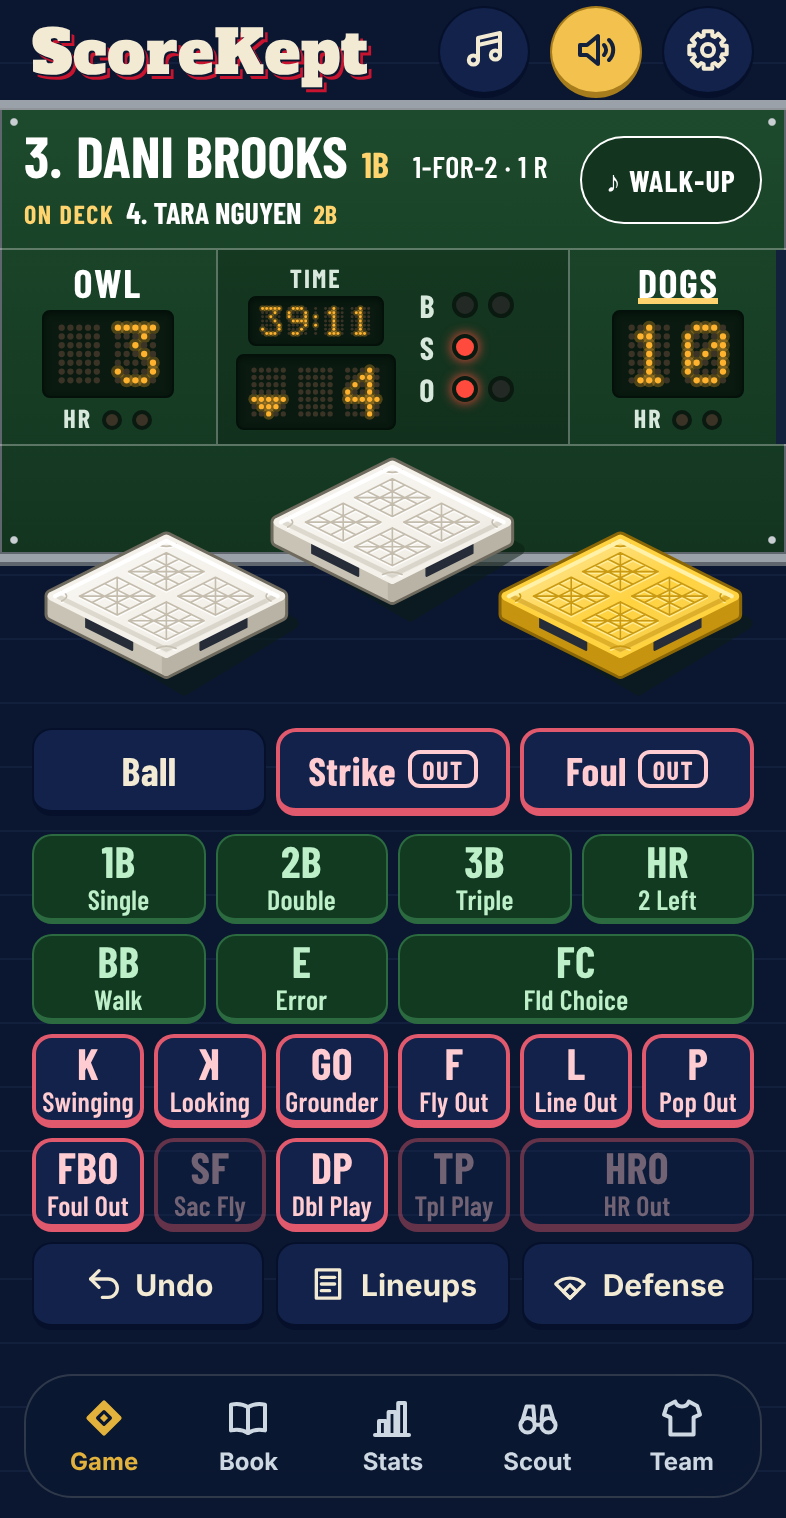
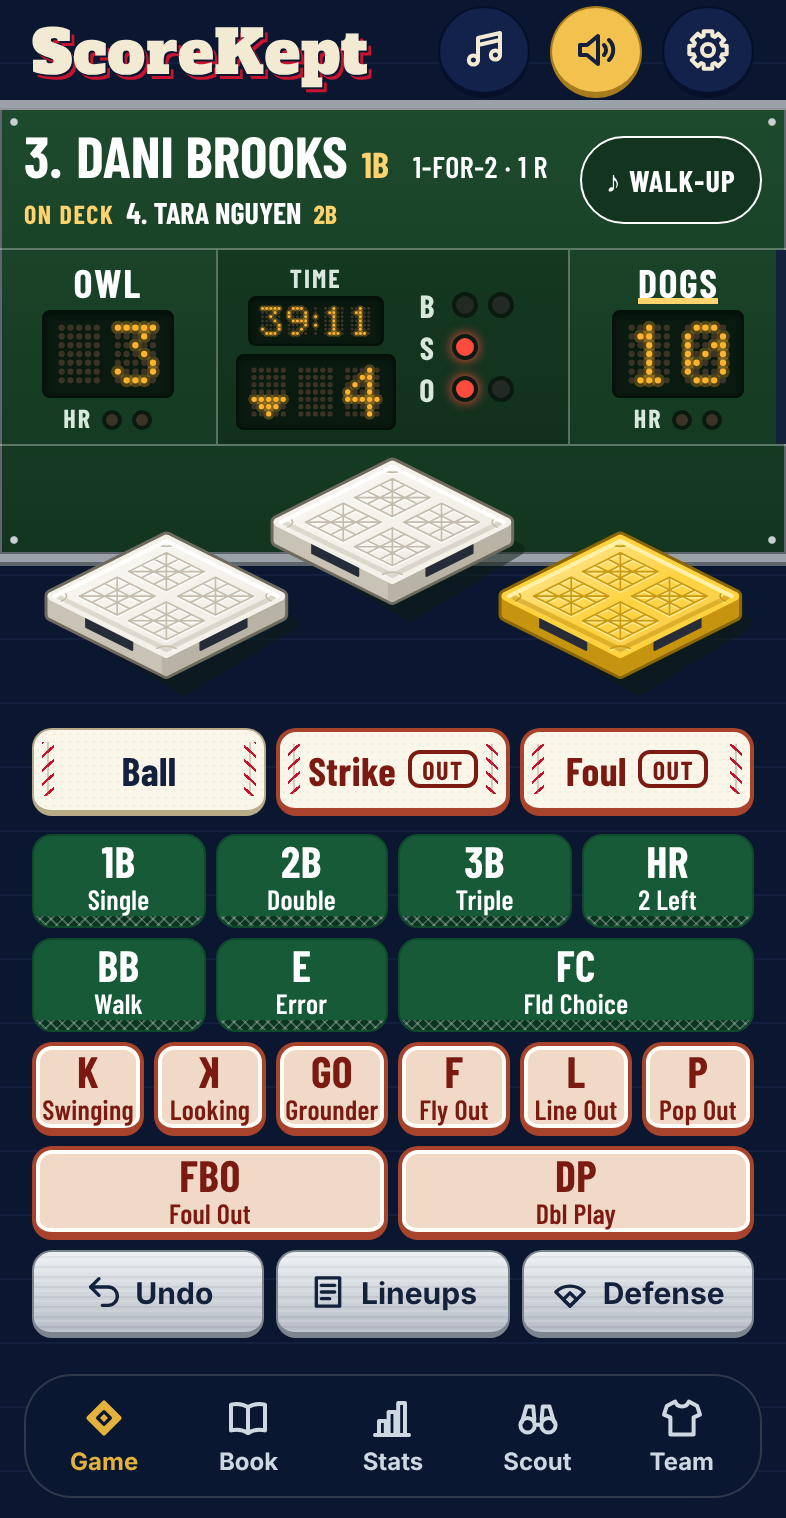
Game: ballpark materials on the keys, and situational outs that step aside
Steve's pick E: Ball, Strike, and Foul in stitched leather, reaching base on
dark turf with a strip of base tread, outs on infield clay inside a chalk
line, and Undo, Lineups, and Defense in brushed aluminum. Sac Fly, Double
Play, Triple Play, and HR Out show only when they can happen; the first out
row never moves.

Claude-Session: https://claude.ai/code/session_019GkS5eEiAzmEB3GrHC5aVf

diff --git a/src/ui/game/game.css b/src/ui/game/game.css
@@ -1283,3 +1283,128 @@
   border-left-width: 0;
   border-radius: 0;
 }
+
+/* ---- ballpark materials (Steve's pick E, Nov 13) ------------------------------------------
+ * Each kind of key is made of its own ballpark thing, the same day and night:
+ * Ball, Strike, and Foul in cream leather with a red seam of V-stitches along
+ * each end; reaching base on dark turf with a strip of the bases' molded
+ * rubber tread; outs on pale infield clay inside a chalk line; Undo, Lineups,
+ * and Defense in brushed aluminum. Dark turf against pale clay, and the tread
+ * against the chalk line, tell reach from out without color. Faint grain only;
+ * no smudges or filters.
+ */
+.gm-key.gm-pitch {
+  position: relative;
+  overflow: hidden;
+  padding-inline: 13px;
+  border-color: var(--mat-leather-edge);
+  background-color: var(--mat-leather);
+  background-image: radial-gradient(var(--mat-leather-grain) 18%, transparent 21%);
+  background-size: 4px 4px;
+  color: var(--mat-leather-ink);
+}
+
+/* The seam at each end: a faint crease, then a row of red V-stitches. */
+.gm-key.gm-pitch::before,
+.gm-key.gm-pitch::after {
+  content: '';
+  position: absolute;
+  top: 6px;
+  bottom: 7px;
+  width: 6px;
+  background-image:
+    linear-gradient(to right, transparent 2.5px, var(--mat-seam-crease) 2.5px, var(--mat-seam-crease) 3.5px, transparent 3.5px),
+    repeating-linear-gradient(-42deg, transparent 0 2.4px, var(--mat-seam) 2.4px 3.6px, transparent 3.6px 5.2px);
+  pointer-events: none;
+}
+
+.gm-key.gm-pitch::before {
+  left: 4px;
+}
+
+.gm-key.gm-pitch::after {
+  right: 4px;
+  transform: scaleX(-1);
+}
+
+/* The pitch that ends the at-bat: a red or green frame on the leather, with its tag. */
+.gm-key.gm-pitch.sk-out {
+  border: 2px solid var(--mat-clay-edge);
+  border-bottom-width: 4px;
+  color: var(--mat-clay-ink);
+}
+
+.gm-key.gm-pitch.sk-hit {
+  border: 2px solid var(--mat-turf-edge);
+  border-bottom-width: 4px;
+  color: var(--mat-turf-edge);
+}
+
+/* Reaching base: turf, with the bases' rubber tread along the bottom edge (its own layer, below the words). */
+.gm-key.sk-hit:not(.gm-pitch) {
+  position: relative;
+  overflow: hidden;
+  border-color: var(--mat-turf-edge);
+  border-bottom-width: 1px;
+  padding-bottom: 6px;
+  background-color: var(--mat-turf);
+  color: var(--mat-turf-ink);
+}
+
+.gm-key.sk-hit:not(.gm-pitch)::after {
+  content: '';
+  position: absolute;
+  left: 0;
+  right: 0;
+  bottom: 0;
+  height: 5px;
+  background-color: var(--mat-tread);
+  background-image:
+    repeating-linear-gradient(45deg, var(--mat-tread-ridge) 0 1px, transparent 1px 4px),
+    repeating-linear-gradient(-45deg, var(--mat-tread-ridge) 0 1px, transparent 1px 4px);
+  pointer-events: none;
+}
+
+/* Outs: infield clay inside a chalk line, framed in brick. */
+.gm-key.sk-out:not(.gm-pitch),
+.gm-key.gm-over {
+  border: 2px solid var(--mat-clay-edge);
+  border-bottom-width: 4px;
+  background-color: var(--mat-clay);
+  box-shadow: inset 0 0 0 2px var(--mat-chalk);
+  color: var(--mat-clay-ink);
+}
+
+/* Undo, Lineups, and Defense: brushed aluminum, lit from above. */
+.gm-strip-key {
+  border-color: var(--mat-alu-edge);
+  background-color: var(--mat-alu-lo);
+  background-image:
+    repeating-linear-gradient(0deg, var(--mat-alu-grain) 0 1px, transparent 1px 2px, var(--mat-alu-grain-dark) 2px 3px, transparent 3px 5px),
+    linear-gradient(var(--mat-alu-hi), var(--mat-alu-lo));
+  color: var(--mat-alu-ink);
+}
+
+/* Streamlined out keys (Steve's pick E): the first row never moves; the second row holds
+   Foul Out and whichever of Sac Fly, Double Play, Triple Play, and HR Out can happen, sharing
+   its width. At 150% zoom (the narrow layout above) they stay put and dim instead. */
+@media (min-width: 341px) {
+  .gm-outs-pad {
+    grid-template-columns: repeat(60, minmax(0, 1fr));
+  }
+
+  .gm-outs-pad > .gm-key {
+    grid-column: span var(--span, 10);
+  }
+
+  .gm-outs-pad > .gm-gone {
+    display: none;
+  }
+}
+
+/* A key that can't be used right now keeps only its frame. */
+.gm-key[aria-disabled='true'].sk-out:not(.gm-pitch) {
+  background-color: transparent;
+  box-shadow: none;
+  color: var(--out-ink);
+}

diff --git a/tests/e2e/game.spec.ts b/tests/e2e/game.spec.ts
@@ -56,17 +56,24 @@ test('Undo takes back the last tap', async ({ page }) => {
   await expect(live(page)).toHaveText('Undone.');
 });
 
-test('dimmed buttons explain themselves and record nothing', async ({ page }) => {
+test('dimmed buttons explain themselves and record nothing; situational outs step aside until they can happen', async ({ page }) => {
   await freshApp(page);
   await startGame(page);
-  const sf = key(page, 'Sac Fly');
-  await expect(sf).toHaveAttribute('aria-disabled', 'true');
+  const fc = key(page, 'Fielder’s Choice: Runner Out, Batter Safe');
+  await expect(fc).toHaveAttribute('aria-disabled', 'true');
   // Still tappable (VoiceOver reads why); the test runner needs force for aria-disabled.
-  await sf.click({ force: true });
-  await expect(page.locator('.gm-hint')).toHaveText('Needs a runner on third with fewer than two outs');
+  await fc.click({ force: true });
+  await expect(page.locator('.gm-hint')).toHaveText('Needs a runner on base');
   await expect(page.locator('.gm-batter')).toHaveText('Player 1');
-  await expect(key(page, 'Fielder’s Choice: Runner Out, Batter Safe')).toHaveAttribute('aria-disabled', 'true');
-  await expect(key(page, 'Triple Play')).toHaveAttribute('aria-disabled', 'true');
+  // Streamlined (Steve's pick E): with nobody on, Sac Fly, Double Play, and Triple Play aren't on the pad.
+  for (const name of ['Sac Fly', 'Double Play', 'Triple Play']) await expect(key(page, name)).toBeHidden();
+  // A runner on first with nobody out: Double Play steps in, sharing the row with Foul Out.
+  await key(page, 'Single').click();
+  await expect(key(page, 'Double Play')).toBeVisible();
+  await expect(key(page, 'Sac Fly')).toBeHidden();
+  const [fbo, dp] = await Promise.all([key(page, 'Foul Out').boundingBox(), key(page, 'Double Play').boundingBox()]);
+  expect(Math.abs(fbo!.width - dp!.width)).toBeLessThan(2);
+  expect(fbo!.y).toBeCloseTo(dp!.y, 0);
 });
 
 test('runners: advance, and Scored on the Play gives the batter the RBI', async ({ page }) => {

diff --git a/src/content/help.ts b/src/content/help.ts
@@ -41,7 +41,7 @@ export const HELP: HelpSection[] = [
   {
     title: 'The Scoring Buttons',
     paragraphs: [
-      'Filled green buttons are for a batter who reaches base. Outlined red buttons are for a batter who’s out. When the next pitch would end the at-bat, its button says Out or Walk. Each shows the code you’d write in the book over a plain word: GO over Grounder, K over Swinging. Some are dimmed when they can’t happen, like Sac Fly with nobody on third, or HRO before your team is over its home-run limit; tap one to hear why.',
+      'The dark turf-green buttons, with a strip of base tread along the bottom, are for a batter who reaches base. The pale clay buttons inside a chalk line are for a batter who’s out. Ball, Strike, and Foul are stitched leather. Sac Fly, Double Play, Triple Play, and HR Out appear only when they can happen. When the next pitch would end the at-bat, its button says Out or Walk. Each shows the code you’d write in the book over a plain word: GO over Grounder, K over Swinging. Some are dimmed when they can’t happen, like Sac Fly with nobody on third, or HRO before your team is over its home-run limit; tap one to hear why.',
       'The top of the scoreboard shows the batter and today: hits for at-bats, each trip by its Book code, RBI, and runs. On Deck is right under the name. Season numbers are on the Stats tab.',
       'Scroll down on the Book, Stats, Scout, or Team and the tab bar tucks into a circle. While a game is on, a little scoreboard sits beside it; tap it to go back to the game. Tap the circle, or scroll up, for every tab.',
       'With Balls and Strikes on, tap Ball, Strike, or Foul for each pitch; the B, S, and O lamps beside the inning keep the count. Ball turns green when it would be ball four, and Strike and Foul turn red when they’d make the out. Strike on the out pitch records a swinging strikeout; tap K Looking instead for a called one. BB stays for an intentional walk.',

diff --git a/src/styles/tokens.css b/src/styles/tokens.css
@@ -355,6 +355,28 @@
   --fb-base-runner-side: #c79410;
   --fb-base-runner-hi: #fff1a8;
   --fb-base-outline: #6f6a5e;
+  /* Ballpark materials for the scoring keys (Steve's pick E, Nov 13): real things, the same day and night. */
+  --mat-leather: #fbf6ea;
+  --mat-leather-grain: rgb(120 90 50 / 0.07);
+  --mat-leather-edge: #b8ab88;
+  --mat-leather-ink: #13213d;
+  --mat-seam: #c8102e;
+  --mat-seam-crease: rgb(120 90 50 / 0.28);
+  --mat-turf: #175a37;
+  --mat-turf-edge: #0f4a2c;
+  --mat-turf-ink: #ffffff;
+  --mat-tread: #0a3520;
+  --mat-tread-ridge: rgb(255 255 255 / 0.24);
+  --mat-clay: #f1d9c7;
+  --mat-clay-edge: #a8442c;
+  --mat-clay-ink: #7a1a10;
+  --mat-chalk: #fffdf7;
+  --mat-alu-hi: #eef1f4;
+  --mat-alu-lo: #b6bdc6;
+  --mat-alu-grain: rgb(255 255 255 / 0.14);
+  --mat-alu-grain-dark: rgb(0 0 0 / 0.05);
+  --mat-alu-edge: #7d858f;
+  --mat-alu-ink: #13213d;
   --fb-base-shade: #5d584c;
   --fb-base-plate: #262c38;
   --fb-base-runner-outline: #8a6606;

diff --git a/src/ui/game/pad.ts b/src/ui/game/pad.ts
@@ -173,6 +173,11 @@ export class Pad {
       setText(this.pitchTags.get(p)!, walk ? 'Walk' : out ? 'Out' : '');
     }
     for (const [r, b] of this.keys) setDimmed(b, v.dimmed[r]);
+    // Streamlined (Steve's pick E, Nov 13): Sac Fly, Double Play, Triple Play, and HR Out step aside
+    // when they can't happen; Foul Out and the ones that can share the second out row.
+    const second = (['FBO', 'SF', 'DP', 'TP', 'HRO'] as const).filter((r) => r === 'FBO' || !v.dimmed[r]);
+    for (const r of ['SF', 'DP', 'TP', 'HRO'] as const) this.keys.get(r)!.classList.toggle('gm-gone', !!v.dimmed[r]);
+    for (const r of second) this.keys.get(r)!.style.setProperty('--span', String(60 / second.length));
     const hr = this.keys.get('HR')!;
     if (v.hrLeft === Infinity) {
       setText(this.hrSub, 'Home Run');

diff --git a/src/content/whats-new.ts b/src/content/whats-new.ts
@@ -10,6 +10,14 @@ export interface WhatsNewEntry {
 
 export const WHATS_NEW: WhatsNewEntry[] = [
   {
+    version: '2026.11.14-1',
+    headline: 'Built From the Ballpark',
+    lines: [
+      'Ball, Strike, and Foul are stitched leather now, the hits sit on turf with a strip of base tread, the outs are on infield clay inside a chalk line, and Undo, Lineups, and Defense are brushed aluminum.',
+      'Sac Fly, Double Play, Triple Play, and HR Out only show up when they can happen, so the rest of the outs get more room.',
+    ],
+  },
+  {
     version: '2026.11.13-15',
     headline: 'Let’s Go to the Replay',
     lines: [

diff --git a/src/version.ts b/src/version.ts
@@ -1,2 +1,2 @@
 // Bump on every push that changes the app. Format: YYYY.MM.DD-N
-export const APP_VERSION = '2026.11.13-15';
+export const APP_VERSION = '2026.11.14-1';

diff --git a/docs/SPEC.md b/docs/SPEC.md
@@ -375,6 +375,7 @@ Grouped; each item opens its own screen; ✕ or Done returns to Settings:
 - **Bases after Steve's photo sheet (2026.11.13-15):** light across the top (a white-to-shade gradient, brighter toward third), the near top edges rounding over in a soft band, grooved corner caps, and a dark recessed label plate in each side (plain, no marks). One gradient per base, ids numbered.
 - **Names come through (2026.11.13-15):** the batter's name and the On Deck name shrink (through `--fit`) until they show whole, down to 62% for the batter and 80% for On Deck (never under 12 points), before an ellipsis is ever needed. The board re-measures when the Game tab opens.
 - **Game Replay (Phase 15, 2026.11.13-15):** **Watch Replay** above the Book's play-by-play opens a full-screen sheet: the game's teams and date, a green strip with both short names and runs, the inning, and the outs, the field (the hit-location field) with the ball's line drawing out to where it landed (or the fielder's spot), runners as gold markers with initials that move base to base (a run heads home, an out fades), "Top of the third, 1 out", and the play's words in a polite live region. **Back**, **Play**/**Pause** (a play every 2.4 seconds), **Next**, and a half-inning menu. Built only from saved plays (`replay()` up to each play), so every game replays, imported ones too. Reduce Motion steps with no movement. Not built yet: sharing it as a video.
+- **Ballpark materials (2026.11.14-1, Steve's pick E from the Ballpark Materials mockups):** Ball, Strike, and Foul are cream leather with a faint pebble grain and a seam at each end (a crease and a row of red V-stitches); the pitch that ends the at-bat gets a brick (Out) or turf (Walk) frame with its tag. Reaching base is dark turf (`--mat-turf`, white words at 7:1) with a strip of the bases' molded rubber tread along the bottom (its own layer). Outs are pale infield clay inside a chalk line, framed in brick; a dimmed one keeps only its frame. Undo, Lineups, and Defense are brushed aluminum with a fine horizontal grain, lit from above. The colors are a fixed set (`--mat-*`), the same day and night, like the field board. Edit Play's keys and the Dugout Mode quick buttons share the looks. **Streamlined outs:** the first out row (K, backwards K, GO, F, L, P) never moves; the second holds Foul Out and whichever of Sac Fly, Double Play, Triple Play, and HR Out can happen, sharing the row's width (a 60-column grid, `--span`); at 150% zoom they stay and dim instead.
 - **Status bar (2026.11.13-12):** `black-translucent`: the app runs under the clock and battery, which iOS draws in white, over a navy band (`--status-band`) as tall as the top safe area in both appearances. Outside the Home Screen app the band is zero tall. Only the tabs' opacity and position animate; the bar's own colors snap (2026.11.13-14, LESSONS 92). Reduce Motion swaps without sliding; Increase Contrast and Reduce Transparency make the circle solid.
 
 - **App icon:** the standard ScoreKept scorebook for everyone (not team-colored): a hardbound scorebook cover with stitched spine and cream page edges, a white diamond with three bases and a real home plate, white thin baselines, white R·H·E numbers in a dark inset panel, score-bug gloss and stripe, a white sticker outline. 180, 192, 512 px PNGs plus manifest. Name under icon: ScoreKept.

diff --git a/CLAUDE.md b/CLAUDE.md
@@ -71,7 +71,7 @@ These rules applied to the first build and still apply.
 - **Light appearance is "scorebook by day":** cream paper with faint ruled lines, navy ink, section labels in navy underlined in red, buttons with a thicker bottom edge, a floating glass tab bar. **Dark Mode is "scoreboard by night."** Both keep the app's own navy, red, gold, and cream; dark is never just gray.
 - **Contrast:** 7:1 for normal text and 4.5:1 for large or bold, in **both appearances** (Steve, Nov 13: "always more visible"; sunlight at the field). A test checks every screen.
 - **Text is never smaller than 12 points** (`calc(12 * var(--u))`), and anything read during a game aims bigger. A test enforces the floor.
-- **Never color alone** (Steve, Nov 13: color blindness). Anything color means also shows in shape, fill, or words: outs are outlined and reaching base is filled, the out pitch carries an Out tag, runs get a solid diamond, spray-chart hits and outs differ in shape. Check new screens in a red-green color-blindness simulation.
+- **Never color alone** (Steve, Nov 13: color blindness). Anything color means also shows in shape, fill, or words: reaching base is dark turf with a rubber-tread strip and outs are pale clay inside a chalk line (Steve's pick E, Nov 13), the out pitch carries an Out tag, runs get a solid diamond, spray-chart hits and outs differ in shape. Check new screens in a red-green color-blindness simulation.
 - **All colors are named tokens** in one light set and one dark set at the top of the stylesheet. Never hard-code a color in a rule. Things that look the same in real life in both modes (the field scoreboard, the green field) live in a fixed set used by both. Canvas and SVG picture colors live in one named `PICTURE` set in code.
 - **The app's theme is fixed** (navy, ballpark red, gold, cream). Team colors appear only where they mean "your team": the team badge, the score stripe, team logo pins.
 - **Type comes from the subject.** Titles in Alfa Slab One, title case ("ScoreKept", never all caps), with a jersey-style shadow that has a thin gap between letter and shadow. Scoreboard numbers in a scoreboard face. **Handwriting appears only in the Book**, only for things a scorekeeper would write by hand. (The Game tab's little at-bat boxes, an exception for a while, were removed at Steve's call, Nov 13.) No trendy geometric or monospace "app" fonts.

diff --git a/docs/LESSONS.md b/docs/LESSONS.md
@@ -71,4 +71,5 @@ Each of these cost real time the first time. Read before working on the related 
 90. **Pale red and pale green keys are the same key to a red-green colorblind scorer.** The pad's reach and out keys differed only in hue at similar lightness; a deuteranopia simulation turned both tan. Fix with a second channel (filled against outlined, a word tag), not a different pair of hues. Simulate before calling a screen done.
 92. **A color transition on a page-load color is a flaky contrast test.** The tab bar's `transition: background-color` (for tucking) also ran when the appearance's colors first applied, so a check that measured in that fifth of a second saw a half-faded bar and failed now and then. Animate only opacity and transform; let colors snap.
 93. **Fitting text needs it on screen.** The board shrinks long names by measuring them, and a hidden tab measures zero. Re-run the fit when the tab opens (the shell calls the Game screen's update on select), and never set a font size in px from script: set a unitless `--fit` the stylesheet multiplies.
+94. **Draw a decoration that sits under no text as its own layer.** The reach keys' rubber tread strip was a background gradient, so the contrast check measured the words against the tread's light ridges (3.8:1) though no word touches them. A pseudo-element strip keeps the key's background solid, and the check honest.
 91. **A tap that misses its target in a test may be a hidden UI element, not a slow page.** Tucking the tab bar on any scroll broke tests that scroll a button into view and then tap a tab. Tuck only on a finger or trackpad scroll, start that timer at minus infinity (not 0, or the first half second after load counts), and hide whichever form isn't showing with `visibility`, so neither VoiceOver nor a test finds it.

diff --git a/README.md b/README.md
@@ -50,7 +50,7 @@ On a new iPhone or iPad, tap **PLAY BALL!**, then **Look Around with Sample Data
 
 1. On the Game tab, tap **New Game** (or **Start This Game** under Up Next). Check **Who’s Here**, build the batting order by tapping players (drag **☰** to reorder, or try **Auto-Fill**, **Same as Last Game**, or **Suggest Order**), then fill in **Game Details**.
 2. At the coin toss, tap **We’re Visitors (Bat First)** or **We’re Home (Bat Second)**. The clock starts.
-3. Tap the green buttons when a batter reaches and the red ones when a batter’s out. The top of the scoreboard shows the batter, today’s trips to the plate, and who’s on deck. With **Balls and Strikes** on, tap **Ball**, **Strike**, or **Foul** for each pitch; Strike on the out pitch is a swinging strikeout, and the backwards **K** is a called one. With **Hit Location** on, tap where the ball went, then **Save** (or **Skip**).
+3. Tap the turf-green buttons when a batter reaches and the clay ones when a batter’s out. Sac Fly, Double Play, Triple Play, and HR Out appear only when they can happen. The top of the scoreboard shows the batter, today’s trips to the plate, and who’s on deck. With **Balls and Strikes** on, tap **Ball**, **Strike**, or **Foul** for each pitch; Strike on the out pitch is a swinging strikeout, and the backwards **K** is a called one. With **Hit Location** on, tap where the ball went, then **Save** (or **Skip**).
 4. Tap a lit base to move a runner: **Advance**, **Scored on the Play**, **Out**, or **Courtesy Runner**.
 5. When the game ends, tap **Save to Season**, then **Back Up Now**.
 
